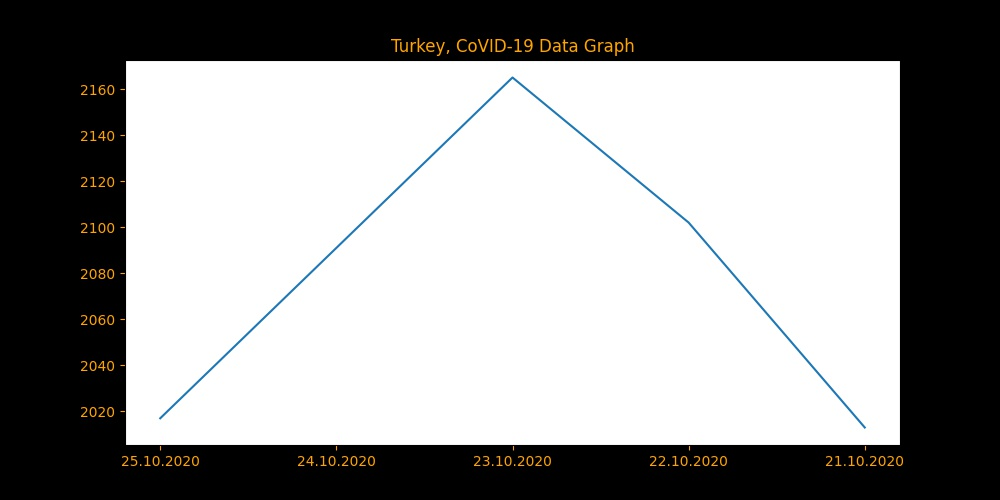
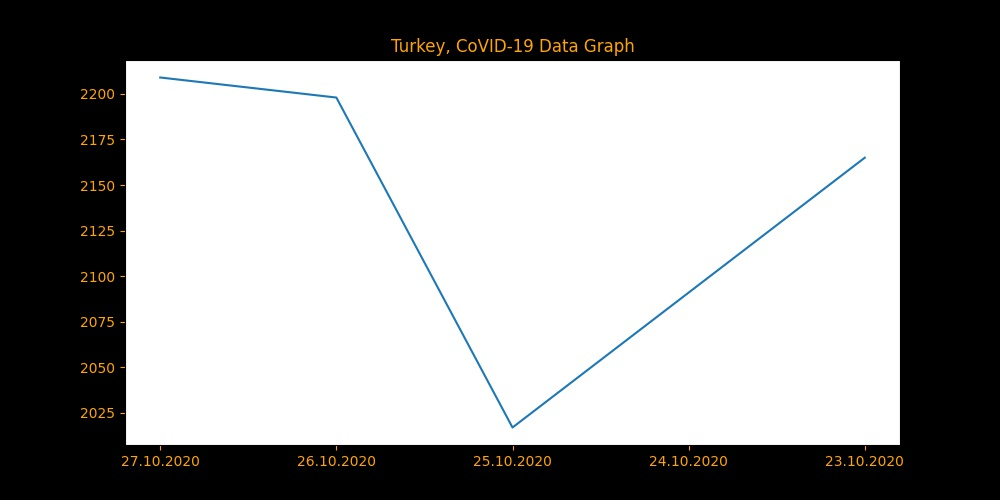
:notebook: 27.10.2020 Update

diff --git a/README_TR.md b/README_TR.md
@@ -11,18 +11,18 @@ Burada, Türkiye'nin [COVID-19 (Koronavirüs) (Hakkında bilgi almak için tıkl
 Not: Bütün veriler, Türkiye Sağlık Bakanlığı'ndan sağlanmaktadır. Eğer veriler güncel değilse, bu büyük ihtimal [devletin web sitesi](https://covid19.saglik.gov.tr) ile alakalıdır. Tamamdır, o zaman başlayalım!
 
 Öncelikle bugünün verileri:
-## :calendar: 25.10.2020 Koronavirüs Verileri:
+## :calendar: 27.10.2020 Koronavirüs Verileri:
 | Veri Tipi         | Bugünün Verileri   | Toplam Veriler     |
 | :---              |    :----           |     :---           |
-| Testler           | 112,215    | 13,289,813    |
-| Vakalar           | 2,017   | 360,189    |
-| Tedaviler         | 1,297    | 315,203|
-| Vefatlar          | 72| 9,796   |
+| Testler           | 127,651    | 13,565,813    |
+| Vakalar           | 2,209   | 364,788    |
+| Tedaviler         | 1,511    | 318,546|
+| Vefatlar          | 76| 9,951   |
 
-:clock9: `Son Güncelleme: 26.10.2020 10:29`
+:clock9: `Son Güncelleme: 27.10.2020 19:23`
 \
 \
-Ülkemiz ile alakalı gönderilen verilerde bir gariplik var. Devletin verdiği toplam veriler ile günlük veriler arasında uyuşmazlık mevcut. Eğer her günün verisini birbirine eklersek, Bizim hesaplamamız vakalar için **1612** tane daha az çıkıyor. Bu, ölümler için **3** , testler için **71925** ve tedavi olanlar için **813** . Neden devletimiz böyle bir şey yapıyor anlamıyoruz. YOKSA VERİLER YANLIŞ MI??!?\
+Ülkemiz ile alakalı gönderilen verilerde bir gariplik var. Devletin verdiği toplam veriler ile günlük veriler arasında uyuşmazlık mevcut. Eğer her günün verisini birbirine eklersek, Bizim hesaplamamız vakalar için **1420** tane daha az çıkıyor. Bu, ölümler için **1** , testler için **87361** ve tedavi olanlar için **1027** . Neden devletimiz böyle bir şey yapıyor anlamıyoruz. YOKSA VERİLER YANLIŞ MI??!?\
 Neyse tamam, hadi grafikler hakkında konuşalım. Dünle bu günün karşılaştırma grafiği:\
 ![alt text](https://github.com/lysep-corp/COVID-19/blob/master/Graphs/YESTERDAY_COMP_TODAY_TR.jpeg?raw=true)
 

diff --git a/README.md b/README.md
@@ -11,18 +11,18 @@ In this we will gonna show you where is the Turkey going about [COVID-19 Pandemi
 Note: All the data coming from Türk Ministery of Health's public website. If datas are not up-to-date, probably this is about the [goverment's website](https://covid19.saglik.gov.tr) if our server's are not die. Okey, Let's start than!
 
 First today's datas:
-## :calendar: 25.10.2020 Corona virus Datas:
+## :calendar: 27.10.2020 Corona virus Datas:
 | Data Type         | Today's Datas      | All Time Data      |
 | :---              |    :----           |     :---           |
-| Tests             | 112,215    | 360,189    |
-| Cases             | 2,017   | 9,796   |
-| Cures             | 1,297    | 13,289,813    |
-| Deaths            | 72| 315,203|
+| Tests             | 127,651    | 364,788    |
+| Cases             | 2,209   | 9,951   |
+| Cures             | 1,511    | 13,565,813    |
+| Deaths            | 76| 318,546|
 
-:clock9: `Last Update: 26.10.2020 10:29`
+:clock9: `Last Update: 27.10.2020 19:23`
 \
 \
-There is something weird going on about our country's data. There is a little bit difference about goverment's all time data and daily datas. If we gonna add everyday's data to each other, Our calculation is **1612** less than the goverment's case calculation. It's **3** for deaths, **71925** for tests and **813** for cured person count. We don't know why our country is doing that. ARE THE DATAS WRONG??!?\
+There is something weird going on about our country's data. There is a little bit difference about goverment's all time data and daily datas. If we gonna add everyday's data to each other, Our calculation is **1420** less than the goverment's case calculation. It's **1** for deaths, **87361** for tests and **1027** for cured person count. We don't know why our country is doing that. ARE THE DATAS WRONG??!?\
 Okey, let's talk about the graphs. Here is today's data is compare with yesterdays:\
 ![YESTERDAY_COMP_TODAY_EN](https://github.com/lysep-corp/COVID-19/blob/master/Graphs/YESTERDAY_COMP_TODAY_EN.jpeg?raw=true)
 
